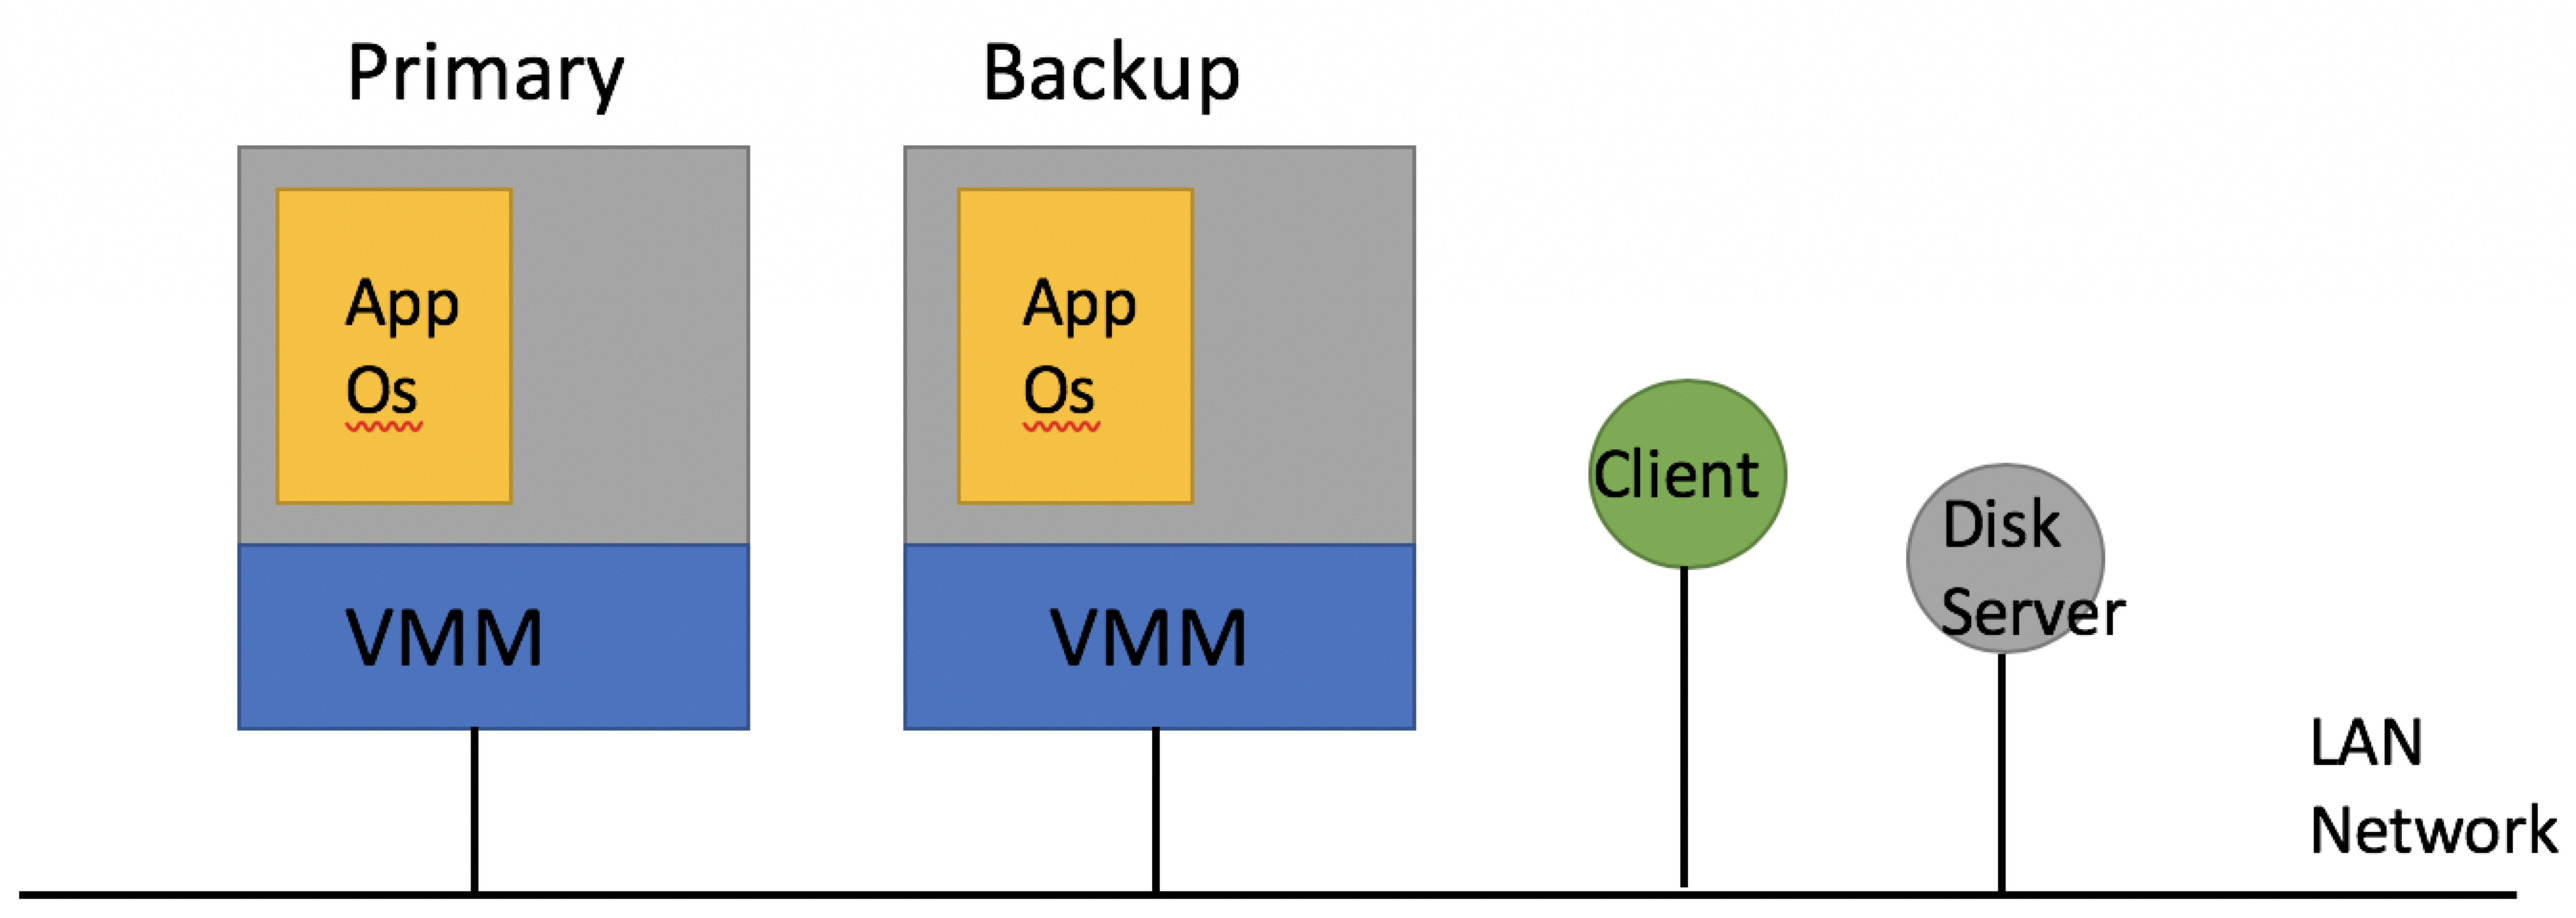
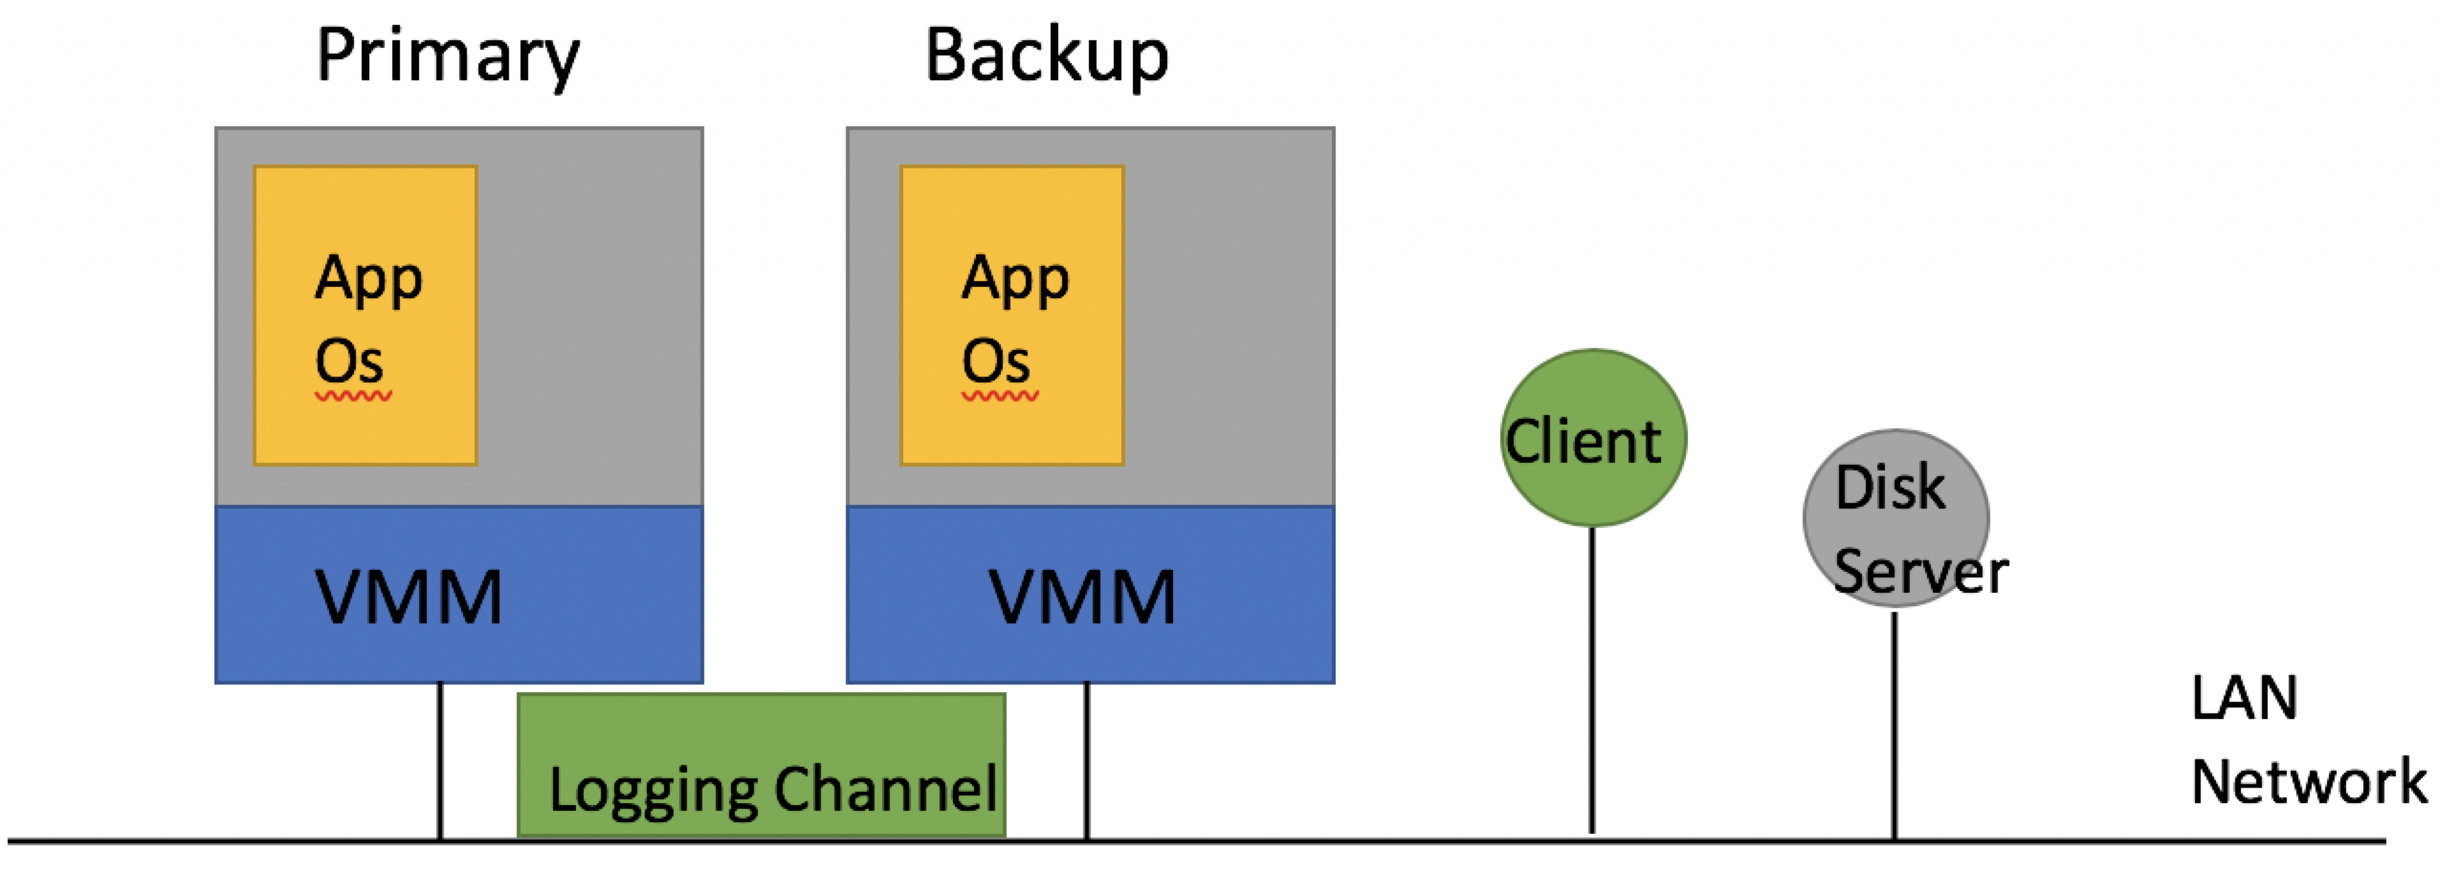
add dis

diff --git a/Distributed System/4.Primary-Backup Replication.md b/Distributed System/4.Primary-Backup Replication.md
@@ -57,3 +57,8 @@
 * two machines, primary and backup  
   * primary sends all external events (client packets &c) to backup over network
     "logging channel", carrying log entries  
+  * backup's output is suppressed by FT  
+
+
+#### VMM  
+* VMM emulates a local disk interface.  
